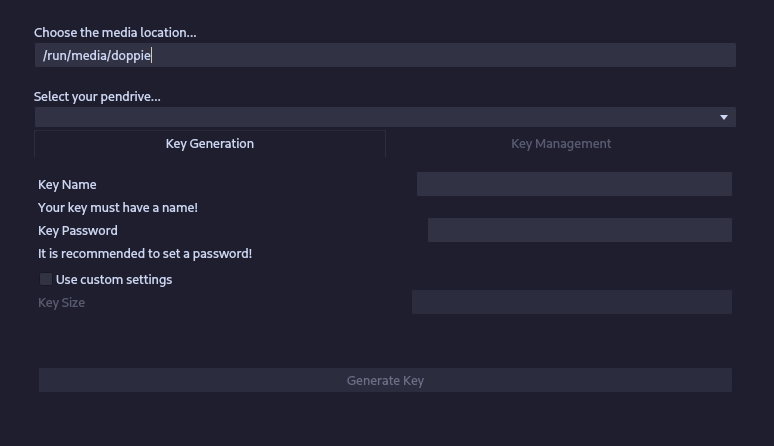
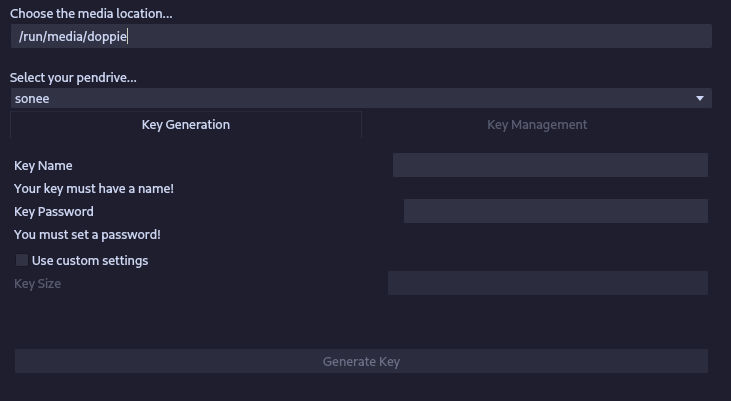
Better password window, a bit more of the report.

diff --git a/src/common/password_input.py b/src/common/password_input.py
@@ -1,4 +1,4 @@
-from PyQt6.QtWidgets import QDialog, QLabel, QLineEdit, QDialogButtonBox, QGridLayout
+from PyQt6.QtWidgets import QDialog, QLabel, QLineEdit, QDialogButtonBox, QHBoxLayout, QVBoxLayout
 from PyQt6 import QtCore
 
 class PasswordInput(QDialog):
@@ -41,11 +41,22 @@ class PasswordInput(QDialog):
         self.button_box.button(QDialogButtonBox.StandardButton.Cancel).setText("Cancel")
         self.button_box.button(QDialogButtonBox.StandardButton.Cancel).released.connect(lambda: self.done(0))
 
-        self.form_grid_layout = QGridLayout()
-        self.form_grid_layout.addWidget(self.label, 0, 0, 1, 1)
-        self.form_grid_layout.addWidget(self.password_edit, 1, 0, 1, 1)
-        self.form_grid_layout.addWidget(self.button_box, 2, 0, 1, 1)
+        self.inner_box = QVBoxLayout()
+        self.inner_box.setAlignment(QtCore.Qt.AlignmentFlag.AlignCenter)
+        self.inner_box.addWidget(self.label)
+        self.inner_box.addWidget(self.password_edit)
+        self.inner_box.addWidget(self.button_box)
 
-        self.setLayout(self.form_grid_layout)
+        self.hbox = QVBoxLayout()
+        self.hbox.addStretch(1)
+        self.hbox.addLayout(self.inner_box, 5)
+        self.hbox.addStretch(1)
+
+        self.vbox = QHBoxLayout()
+        self.vbox.addStretch(1)
+        self.vbox.addLayout(self.hbox, 5)
+        self.vbox.addStretch(1)
+
+        self.setLayout(self.vbox)
 
         
